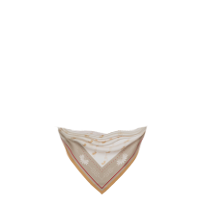
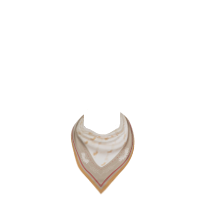
lining fixes, image change, preview added

Changed region(s): [[0.27, 0.57, 0.75, 0.99], [0.48, 0.81, 0.54, 0.84]]

diff --git a/BondageClub/Assets/Female3DCG/Female3DCG.js b/BondageClub/Assets/Female3DCG/Female3DCG.js
@@ -216,7 +216,7 @@ var AssetFemale3DCG = [
 				{ Name: "Jewels", AllowColorize: true },
 				]
 			},
-			{ Name: "Bandana", Value: 15, BuyGroup: "ScafGag", ParentGroup: null},
+			{ Name: "Bandana", Value: 15, Left: 148, Top: 97, BuyGroup: "ScarfGag", ParentGroup: null},
 		],
 		Color: ["Default", "#202020", "#808080", "#bbbbbb", "#aa8080", "#80aa80", "#8080aa", "#aaaa80", "#80aaaa", "#aa80aa", "#cc3333", "#33cc33", "#3333cc", "#cccc33", "#33cccc", "#cc33cc"]
 	},
